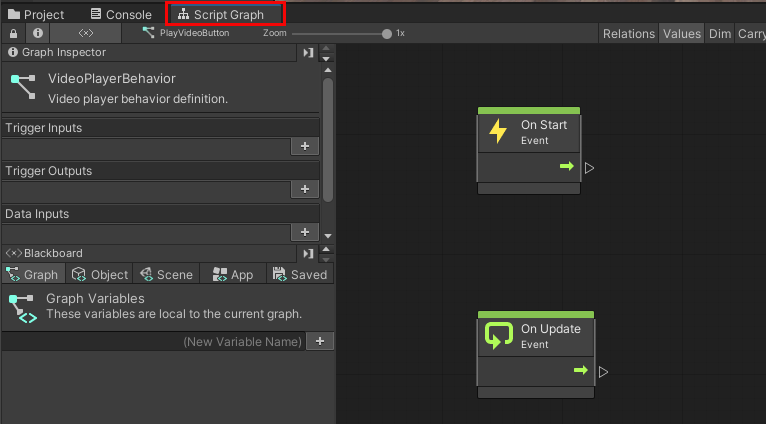
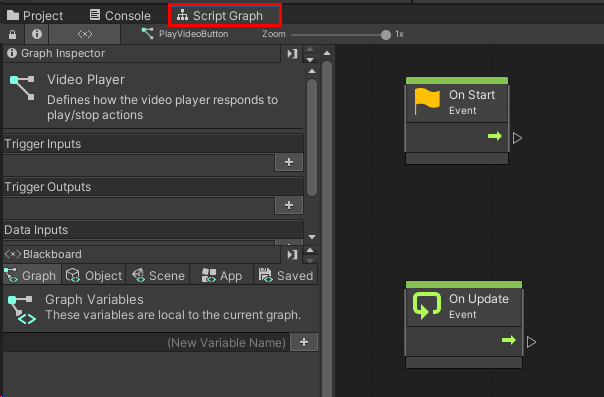
edits-092024-1537

diff --git a/mesh/develop/getting-started/mesh-101-tutorial/mesh-101-03-visual-scripting.md b/mesh/develop/getting-started/mesh-101-tutorial/mesh-101-03-visual-scripting.md
@@ -3,7 +3,7 @@ title: Mesh 101 Add interactivity with Mesh Visual Scripting
 description: Learn adding about adding interactivity to objects with Mesh Visual Scripting.
 author: typride
 ms.author: vinnietieto
-ms.date: 2/22/2024
+ms.date: 9/20/2024
 ms.topic: Tutorial
 ms.service: mesh
 keywords: Microsoft Mesh, getting started, Mesh 101, tutorial, scripting, visual scripting, code, coding, interactivity
@@ -101,13 +101,19 @@ Right now, the text on the button says **Label**. Let's change that to
 
     ![A screenshot of a Unity showing two components that were added, Script Machine and Variables.](../../../media/sample-mesh-101/201-script-machine-v2.png)
 
-1. Note that in the **Script Machine** component, the **Source** option is set to **Graph**. You have two choices for **Source**: *Graph* and *Embed*. Click the **Source** drop-down and then select **Embed**.
+1. Note that in the **Script Machine** component, the **Source** option is set to **Graph**. You have two choices for **Source**: *Graph* and *Embed*. Each has advantages and disadvantages. We'll be choosing *Graph* for our scripts because a Graph script is saved as a separate file and this provides greater flexibility.
 
     > [!TIP]
-    > *Graph* and *Embed* each have advantages and disadvantages; you can learn more about them in the [Unity Script Machine article](https://docs.unity3d.com/Packages/com.unity.visualscripting@1.8/manual/vs-graph-machine-types.html). We're choosing to use *Embed* here because, among other things, you can directly reference your scene nodes without making intermediate Object variables.
+    > *Graph* and *Embed* are described in more detail in the [Unity Script Machine article](https://docs.unity3d.com/Packages/com.unity.visualscripting@1.8/manual/vs-graph-machine-types.html).
 
-1. In the **Script Machine** component, enter a name in the *Title* field for the graph: "Video Player Behavior."
-1. Enter a description in the *Summary* field for the graph: "Video player behavior definition."
+1. In the **Script Machine** component, click the **New** button.
+1. In the **Save Graph** window, create a new folder and then rename it to "Scripts".
+1. Open the Scripts folder and then, in the **File name** text box, type "PlayVideoButton".
+1. When you're finished, click the **Save** button.
+1. In the **Script Machine** component, enter a name in the *Title* field for the graph: "Video Player."
+1. Enter a description in the *Summary* field for the graph: "Defines how the video player responds to play/stop actions."
+
+    ![__________________](../../../media/sample-mesh-101/526-script-machine-playvideo.png)
 
 ### Setting up the script graph
 
@@ -237,7 +243,7 @@ Now we'll add the nodes that detect if *isPlaying* changes; the video will play 
 
 ### Making the video play
 
-1. In the **Hierarchy**, expand the **VideoPlayer** GameObject and and note that it has two child objects: **Video** and **VideoStill**.
+1. In the **Hierarchy**, expand the **VideoPlayer** GameObject and note that it has two child objects: **Video** and **VideoStill**.
 
 1. Select **Video** and then, in the **Inspector**, note the following:
 
